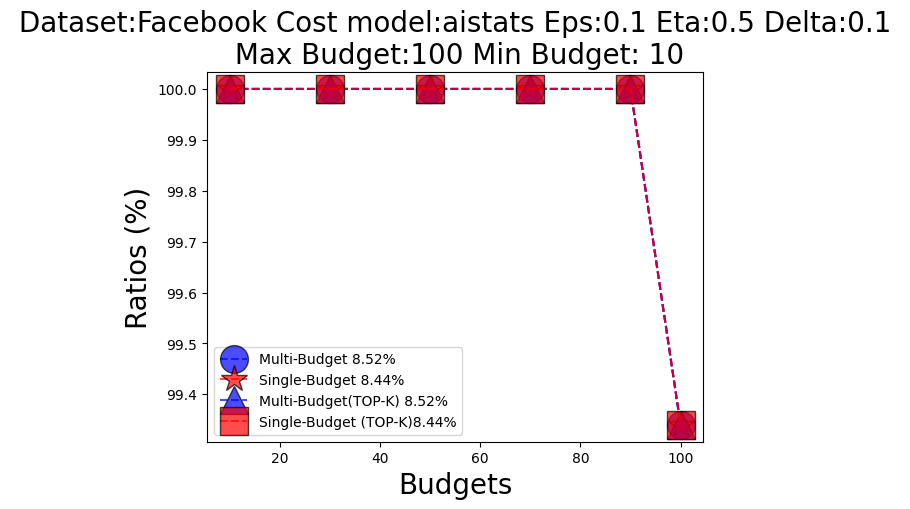
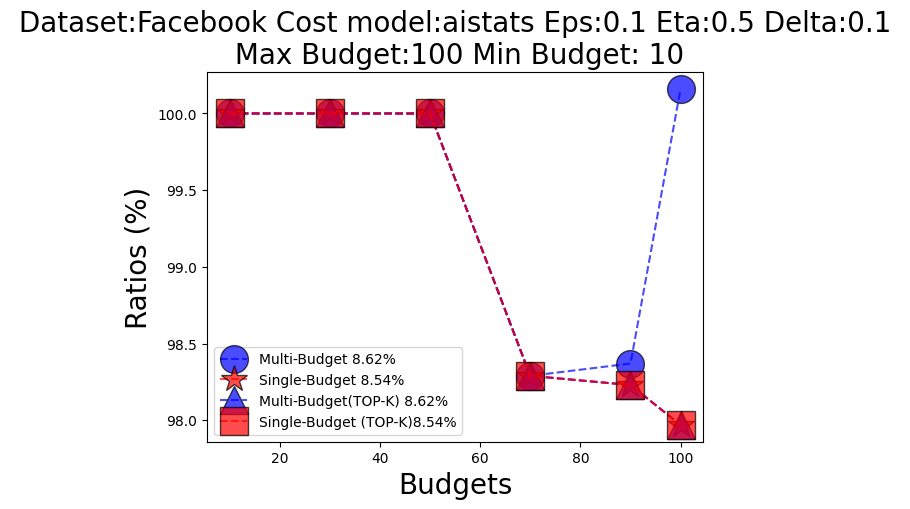
updated

diff --git a/IM/knapsack_numba_greedy.py b/IM/knapsack_numba_greedy.py
@@ -3,8 +3,8 @@ import numpy as np
 def process_rr_sets(graph, gains_dict, node_rr_set, RR):
     N = graph.number_of_nodes()
     gains = np.zeros(N)
-    node_rr_set_start_index = np.zeros(N)
-    node_rr_set_end_index = np.zeros(N)
+    node_rr_set_start_index = np.zeros(N,dtype=np.int32)
+    node_rr_set_end_index = np.zeros(N,dtype=np.int32)
     node_rr_set_flat = []
 
     for key in gains_dict:
@@ -15,8 +15,8 @@ def process_rr_sets(graph, gains_dict, node_rr_set, RR):
 
     node_rr_set_flat = np.array(node_rr_set_flat)
 
-    rr_start_index = np.zeros(len(RR))
-    rr_end_index = np.zeros(len(RR))
+    rr_start_index = np.zeros(len(RR),dtype=np.int32)
+    rr_end_index = np.zeros(len(RR),dtype=np.int32)
     RR_flat = []
 
     for i, rr in enumerate(RR):
@@ -31,8 +31,8 @@ def process_rr_sets(graph, gains_dict, node_rr_set, RR):
 
 
 
-@njit
-def gain_adjustment(node_rr_set_flat, node_rr_set_start_index, node_rr_set_end_index,
+@njit 
+def numba_gain_adjustment(node_rr_set_flat, node_rr_set_start_index, node_rr_set_end_index,
                      RR_flat, rr_start_index, rr_end_index,gains,selected_element,covered_rr_set):
     
     # Loop through the relevant portion of node_rr_set_flat for the selected element
@@ -60,3 +60,89 @@ def select_element(gains,node_weights,mask):
 
     mask [selected_element] = 0
     return selected_element
+
+@njit 
+def knapsack_numba_greedy(gains,node_weights,budget,node_rr_set_start_index, node_rr_set_end_index, 
+                          node_rr_set_flat, rr_start_index, rr_end_index, RR_flat,mask):
+    
+
+    N = gains.shape[0]
+    covered_rr_set = np.zeros(rr_start_index.shape[0])
+    solution = np.zeros(N)
+    objective_value = 0 
+    constraint = 0 
+    for _ in range(N):
+
+        selected_element = select_element(gains,node_weights,mask)
+
+        if selected_element == -1:
+            break
+
+        elif constraint+node_weights[selected_element] <= budget:
+            constraint += node_weights[selected_element]
+            objective_value+= gains[selected_element]
+            solution[selected_element] = 1
+            numba_gain_adjustment(node_rr_set_flat, node_rr_set_start_index, node_rr_set_end_index,
+                     RR_flat, rr_start_index, rr_end_index,gains,selected_element,covered_rr_set)
+            
+
+    return objective_value,solution
+            
+
+
+def knapsack_greedy(graph,budget,node_weights,gains,node_rr_set,RR,num_rr,ground_set=None):
+
+    # first step: Create the mask
+
+    N = graph.number_of_nodes()
+    mask = np.ones(N)
+
+    node_weights = np.array([node_weights[node] for node in range(N)])
+
+    if ground_set is not None:
+        mask = np.zeros(N)
+        for node in ground_set:
+            mask[node] = 1
+
+    
+    size_of_ground_set = np.sum(mask)
+
+    number_of_queries = size_of_ground_set * (size_of_ground_set - 1)/2
+
+    gains, node_rr_set_start_index, node_rr_set_end_index, node_rr_set_flat, rr_start_index, rr_end_index, RR_flat =process_rr_sets(graph=graph, gains_dict=gains, node_rr_set=node_rr_set, RR=RR)
+
+    objective_value,solution = knapsack_numba_greedy(gains=gains,
+                                                     node_weights=node_weights,
+                                                     budget=budget,
+                                                     node_rr_set_start_index=node_rr_set_start_index,
+                                                     node_rr_set_end_index=node_rr_set_end_index,
+                                                     node_rr_set_flat = node_rr_set_flat,
+                                                     rr_start_index=rr_start_index,
+                                                     rr_end_index = rr_end_index,
+                                                     RR_flat=RR_flat,
+                                                     mask = mask)
+    
+
+
+    solution = np.where(solution == 1)[0].tolist()
+
+
+    return objective_value,solution,number_of_queries
+
+        
+# from utils import *   
+# from greedy import get_gains
+# dataset = 'Facebook'
+# cost_model = 'aistats'
+# num_rr = 100000
+# budget  = 100
+
+# load_graph_file_path=f'../../data/snap_dataset/{dataset}.txt'
+# graph = load_graph(load_graph_file_path)
+# node_weights = generate_node_weights(graph=graph,cost_model=cost_model)
+
+# gains,node_rr_set,RR = get_gains(graph,num_rr)
+
+# objective_value,solution,number_of_queries=knapsack_greedy(graph,budget,node_weights,gains,node_rr_set,RR,ground_set=None)
+
+# print(objective_value,solution,number_of_queries)

diff --git a/IM/knapsack_multibudget.py b/IM/knapsack_multibudget.py
@@ -1,8 +1,11 @@
 from utils import *
 import matplotlib.pyplot as plt
 from greedy import gain_adjustment,get_gains,calculate_spread
+
+# from greedy import gain_adjustment,get_gains,calculate_spread
 from helper_functions import *
-from knapsack_greedy import knapsack_greedy
+# from knapsack_greedy import knapsack_greedy
+from knapsack_numba_greedy import knapsack_greedy
 
 np.random.seed(0)
 random.seed(0)
@@ -165,7 +168,7 @@ def quickfilter_multi(dataset,cost_model,max_budget, min_budget,delta ,eps,eta,n
         start = time.time()
 
         
-        objective_multi_pruned,solution_multi_pruned,queries_multi_pruned = knapsack_greedy     (graph=graph,
+        objective_multi_pruned,solution_multi_pruned,queries_multi_pruned = knapsack_greedy (graph=graph,
                                                                           ground_set = pruned_universe_multi, 
                                                                           num_rr=num_rr,
                                                                           budget = budget, 

diff --git a/IM/imm.py b/IM/imm.py
@@ -217,12 +217,12 @@ def get_graph(network):
     """
     
     weight = 0.01    
-    print(f'Default weight = {weight}')
+    print(f'Creating with graph default weight = {weight}')
     
     graph_ = Graph()
     # node_num = network.number_of_nodes()
 
-    for u, v in network.edges():
+    for u, v in tqdm(network.edges()):
 
         
         # weight = network[u][v]['weight']

diff --git a/IM/knapsack_gnn_pruning.py b/IM/knapsack_gnn_pruning.py
@@ -10,7 +10,7 @@ from collections import defaultdict
 # from knapsack_numba_greedy import knapsack_numba_greedy
 # from DLA_numba import DLA
 
-from knapsack_greedy import knapsack_greedy
+from knapsack_numba_greedy import knapsack_greedy
 from greedy import get_gains
 
 import pandas as pd
